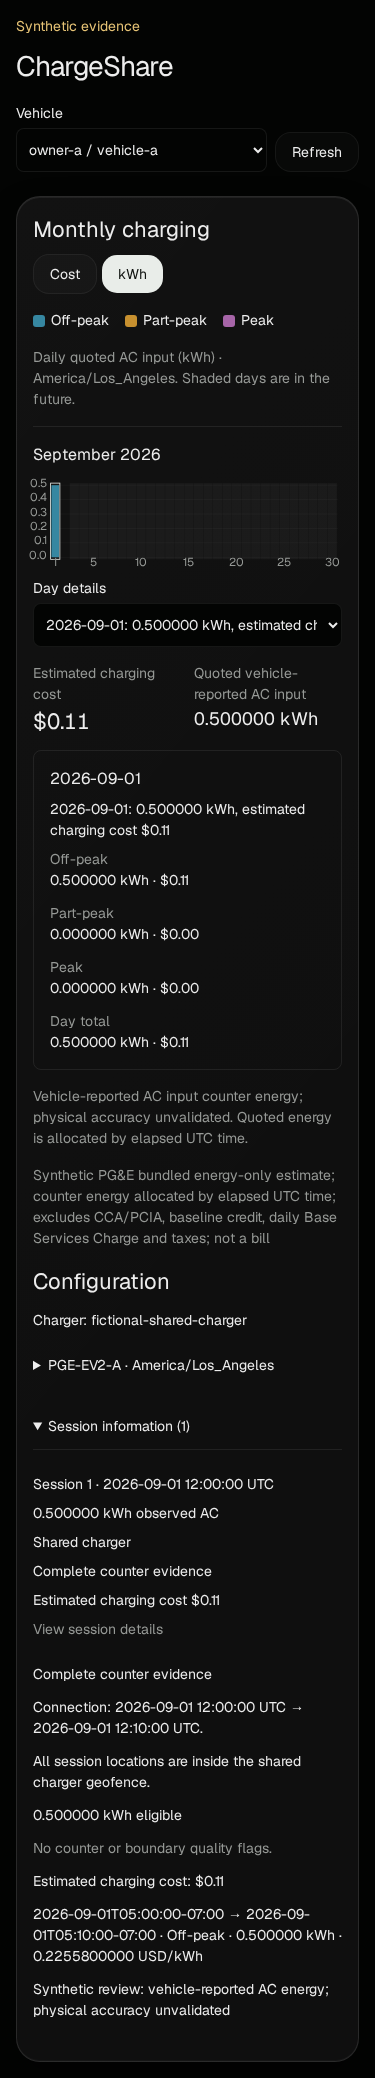
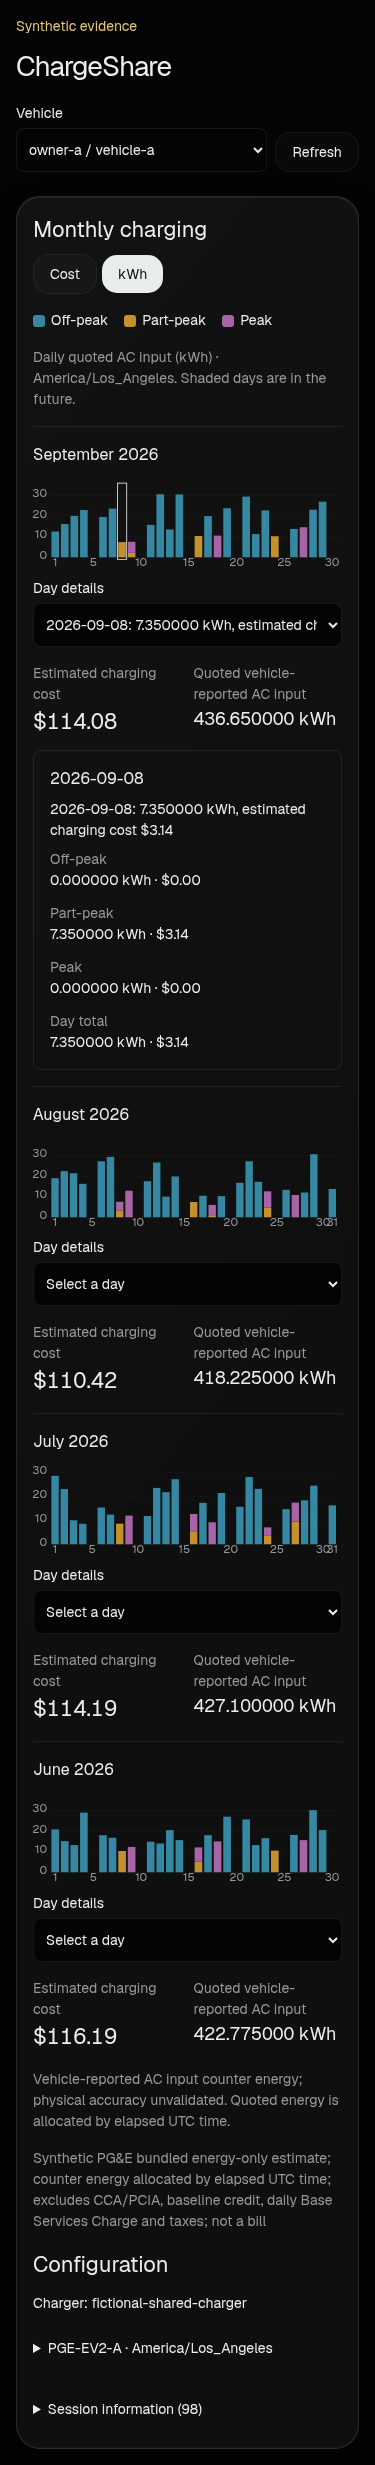
Docs: realistic synthetic dashboard dataset and screenshots (#70)

diff --git a/dev/fixtures/dashboard.py b/dev/fixtures/dashboard.py
@@ -1,0 +1,94 @@
+import calendar
+import json
+import random
+from datetime import datetime, timedelta, timezone
+from pathlib import Path
+from zoneinfo import ZoneInfo
+
+
+SYNTHETIC_NOTICE = "Synthetic data for demos and screenshots only; not real"
+OWNER = "owner-a"
+VEHICLE = "vehicle-a"
+FIXTURES = Path(__file__).resolve().parent
+LOCAL_TIMEZONE = ZoneInfo("America/Los_Angeles")
+
+
+def fictional_charger_location() -> dict[str, float]:
+    complete = json.loads((FIXTURES / "complete.json").read_text())
+    fields = complete["expected"][0]["payload"]["data"]
+    return next(field["value"]["locationValue"] for field in fields if field["key"] == "Location")
+
+
+def utc_timestamp(local_time: datetime) -> str:
+    return local_time.astimezone(timezone.utc).strftime("%Y-%m-%dT%H:%M:%SZ")
+
+
+def counter_kwh(micro_kwh: int) -> str:
+    return f"{micro_kwh // 1_000_000}.{micro_kwh % 1_000_000:06d}"
+
+
+def session_schedule(day: int, random_source: random.Random) -> tuple[int, int]:
+    if day % 9 == 0:
+        return random_source.choice((980, 1080, 1185)), random_source.randrange(90, 181, 15)
+    if day % 8 == 0:
+        return random_source.choice((915, 1275, 1320)), random_source.randrange(75, 121, 15)
+    return random_source.choice((0, 10, 20, 30, 45, 60)), random_source.randrange(135, 301, 15)
+
+
+def generate_dashboard_fixture() -> dict:
+    random_source = random.Random(70)
+    manifest = json.loads((FIXTURES.parent / "ingestion-manifest.json").read_text())
+    manifest["manifest_version"] = "fictional-dashboard-v1"
+    manifest["mappings"] = [{"device": VEHICLE, "vehicle": VEHICLE, "owner": OWNER}]
+    manifest["geofences"] = [geofence for geofence in manifest["geofences"] if geofence["owner"] == OWNER]
+    manifest["owner_chargers"] = [charger for charger in manifest["owner_chargers"] if charger["owner_id"] == OWNER]
+    manifest["annotations"] = []
+    location = fictional_charger_location()
+    records = []
+    counter_micro_kwh = 100_000_000
+    for month in range(6, 10):
+        for day in range(1, calendar.monthrange(2026, month)[1] + 1):
+            if day % 5 == 0:
+                continue
+            start_minute, duration_minutes = session_schedule(day, random_source)
+            start = datetime(2026, month, day, tzinfo=LOCAL_TIMEZONE) + timedelta(minutes=start_minute)
+            power_tenths_kw = random_source.randint(35, 72)
+            energy_micro_kwh = power_tenths_kw * duration_minutes * 1_000_000 // 600
+            connection = f"demo-{month:02d}-{day:02d}"
+            for elapsed_minutes in range(0, duration_minutes + 1, 15):
+                kind = "start" if elapsed_minutes == 0 else "end" if elapsed_minutes == duration_minutes else "sample"
+                created_at = utc_timestamp(start + timedelta(minutes=elapsed_minutes))
+                position = len(records) + 1
+                observed_counter = counter_micro_kwh + energy_micro_kwh * elapsed_minutes // duration_minutes
+                manifest["annotations"].append({
+                    "device": VEHICLE,
+                    "created_at": created_at,
+                    "position": str(position),
+                    "connection": connection,
+                    "kind": kind,
+                    "charge_type": "ac",
+                })
+                records.append({
+                    "key": VEHICLE,
+                    "payload": {
+                        "vin": VEHICLE,
+                        "createdAt": created_at,
+                        "isResend": False,
+                        "data": [
+                            {"key": "DetailedChargeState", "value": {"detailedChargeStateValue": "DetailedChargeStateComplete" if kind == "end" else "DetailedChargeStateCharging"}},
+                            {"key": "ACChargingEnergyIn", "value": {"stringValue": counter_kwh(observed_counter)}},
+                            {"key": "Location", "value": {"locationValue": location}},
+                        ],
+                    },
+                })
+            counter_micro_kwh += energy_micro_kwh
+    return {
+        "notice": SYNTHETIC_NOTICE,
+        "as_of_utc_seconds": int(datetime(2026, 9, 30, 23, 59, 59, tzinfo=LOCAL_TIMEZONE).timestamp()),
+        "manifest": manifest,
+        "records": records,
+    }
+
+
+if __name__ == "__main__":
+    print(json.dumps(generate_dashboard_fixture(), indent=2))

diff --git a/dev/fixtures/dashboard.rs b/dev/fixtures/dashboard.rs
@@ -1,0 +1,118 @@
+use std::error::Error;
+use std::fs;
+use std::path::PathBuf;
+
+use chargeshare_core::{OwnerId, VehicleId};
+use chargeshare_ingestion::{
+    DeliveryCoordinate, Manifest, ManifestConfig, PartitionStart, SYNTHETIC_TOPIC, SourceBinding,
+    Store,
+};
+use serde::Deserialize;
+use serde_json::{Value, json};
+
+#[derive(Deserialize)]
+#[serde(deny_unknown_fields)]
+struct DashboardFixture {
+    notice: String,
+    as_of_utc_seconds: i64,
+    manifest: ManifestConfig,
+    records: Vec<FixtureRecord>,
+}
+
+#[derive(Deserialize)]
+#[serde(deny_unknown_fields)]
+struct FixtureRecord {
+    key: String,
+    payload: Value,
+}
+
+fn main() -> Result<(), Box<dyn Error>> {
+    let arguments: Vec<_> = std::env::args().skip(1).collect();
+    if arguments.len() != 2 {
+        return Err("usage: dashboard-fixture <generated-json> <fresh-output-directory>".into());
+    }
+    let fixture: DashboardFixture = serde_json::from_slice(&fs::read(&arguments[0])?)?;
+    if fixture.notice != "Synthetic data for demos and screenshots only; not real" {
+        return Err("synthetic fixture notice required".into());
+    }
+    let output = PathBuf::from(&arguments[1]);
+    fs::DirBuilder::new().create(&output)?;
+    #[cfg(unix)]
+    {
+        use std::os::unix::fs::PermissionsExt;
+        fs::set_permissions(&output, fs::Permissions::from_mode(0o700))?;
+    }
+    let manifest = Manifest::new(fixture.manifest)?;
+    let source = SourceBinding {
+        epoch: "synthetic-dashboard-v1".to_owned(),
+        topic: SYNTHETIC_TOPIC.to_owned(),
+        cluster_id: None,
+        topic_id: None,
+        partitions: vec![PartitionStart {
+            partition: 0,
+            initial_offset: 0,
+        }],
+    };
+    let mut store = Store::open(&output.join("ingestion.sqlite3"), &manifest, &source)?;
+    for (offset, record) in fixture.records.iter().enumerate() {
+        let offset = i64::try_from(offset)?;
+        store.ingest(
+            &manifest,
+            DeliveryCoordinate {
+                partition: 0,
+                offset,
+            },
+            offset,
+            Some(record.key.as_bytes()),
+            &serde_json::to_vec(&record.payload)?,
+        )?;
+    }
+    let statistics = store.statistics()?;
+    if statistics.rejected_deliveries != 0 {
+        return Err("synthetic fixture ingestion rejected records".into());
+    }
+    let api = output.join("http/api/poc");
+    fs::create_dir_all(&api)?;
+    let scopes: Vec<_> = manifest
+        .config()
+        .mappings
+        .iter()
+        .map(|mapping| json!({"owner": mapping.owner, "vehicle": mapping.vehicle}))
+        .collect();
+    fs::write(
+        api.join("scopes"),
+        serde_json::to_vec(&json!({"synthetic_only": true, "scopes": scopes}))?,
+    )?;
+    for mapping in &manifest.config().mappings {
+        let owner = OwnerId::new(&mapping.owner)?;
+        let vehicle = VehicleId::new(&mapping.vehicle)?;
+        let mut result = store.results(&owner, &vehicle)?;
+        let ledger = store.replay(&owner, &vehicle)?;
+        let prices = ledger
+            .time_of_use_pricing(&vehicle, &manifest.rate_history(&owner)?)
+            .map_err(|_| "synthetic fixture pricing failed")?;
+        result.monthly = prices
+            .monthly_history(fixture.as_of_utc_seconds)
+            .map_err(|_| "synthetic fixture monthly history failed")?
+            .into();
+        result.revision.clear();
+        let hash = serde_json::to_vec(&result)?
+            .iter()
+            .fold(0xcbf29ce484222325_u64, |hash, byte| {
+                (hash ^ u64::from(*byte)).wrapping_mul(0x100000001b3)
+            });
+        result.revision = format!("results-v2-{hash:016x}");
+        let scoped_path = api
+            .join("owners")
+            .join(owner.as_str())
+            .join("vehicles")
+            .join(vehicle.as_str());
+        fs::create_dir_all(&scoped_path)?;
+        fs::write(scoped_path.join("results"), serde_json::to_vec(&result)?)?;
+    }
+    println!(
+        "Synthetic demo: {} records ingested into SQLite; Rust-priced dashboard snapshot exported. Receiver/Kafka transport not exercised.",
+        statistics.accepted_deliveries
+    );
+    Ok(())
+}

diff --git a/dev/fixtures/test_dashboard.py b/dev/fixtures/test_dashboard.py
@@ -1,0 +1,74 @@
+import json
+import random
+import unittest
+from collections import defaultdict
+from datetime import datetime
+from decimal import Decimal
+
+from dashboard import FIXTURES, LOCAL_TIMEZONE, SYNTHETIC_NOTICE, generate_dashboard_fixture
+
+
+class DashboardFixtureTests(unittest.TestCase):
+    def setUp(self):
+        self.fixture = generate_dashboard_fixture()
+        self.sessions = defaultdict(list)
+        for annotation, record in zip(self.fixture["manifest"]["annotations"], self.fixture["records"], strict=True):
+            self.sessions[annotation["connection"]].append((annotation, record))
+
+    def test_generation_is_repeatable_and_leaves_global_random_state_alone(self):
+        random_state = random.getstate()
+        self.assertEqual(self.fixture, generate_dashboard_fixture())
+        self.assertEqual(random_state, random.getstate())
+        self.assertEqual(self.fixture["notice"], SYNTHETIC_NOTICE)
+
+    def test_only_fictional_scope_and_existing_charger_coordinates_are_used(self):
+        manifest = self.fixture["manifest"]
+        self.assertEqual(manifest["mappings"], [{"device": "vehicle-a", "owner": "owner-a", "vehicle": "vehicle-a"}])
+        self.assertEqual(manifest["owner_chargers"][0]["charger_id"], "fictional-shared-charger")
+        complete = json.loads((FIXTURES / "complete.json").read_text())
+        original_location = next(field["value"]["locationValue"] for field in complete["expected"][0]["payload"]["data"] if field["key"] == "Location")
+        for record in self.fixture["records"]:
+            self.assertEqual(record["key"], "vehicle-a")
+            self.assertEqual(record["payload"]["vin"], "vehicle-a")
+            self.assertEqual(record["payload"]["data"][2]["value"]["locationValue"], original_location)
+        for coordinate in ("latitude", "longitude"):
+            self.assertEqual(Decimal(manifest["owner_chargers"][0]["geofence"]["center"][coordinate]), Decimal(str(original_location[coordinate])))
+
+    def test_four_busy_months_include_mostly_midnight_and_all_rate_periods(self):
+        monthly_starts = defaultdict(list)
+        for session in self.sessions.values():
+            local_start = datetime.fromisoformat(session[0][0]["created_at"]).astimezone(LOCAL_TIMEZONE)
+            monthly_starts[local_start.month].append(local_start.hour * 60 + local_start.minute)
+        self.assertEqual(set(monthly_starts), {6, 7, 8, 9})
+        for starts in monthly_starts.values():
+            self.assertGreaterEqual(len(starts), 20)
+            self.assertGreaterEqual(sum(minute <= 60 for minute in starts) / len(starts), 0.7)
+            self.assertTrue(any(900 <= minute < 960 or minute >= 1260 for minute in starts))
+            self.assertTrue(any(960 <= minute < 1260 for minute in starts))
+
+    def test_sessions_have_complete_nonoverlapping_monotonic_counter_evidence(self):
+        prior_end = None
+        prior_counter = Decimal(0)
+        energies = set()
+        for session in self.sessions.values():
+            self.assertEqual(session[0][0]["kind"], "start")
+            self.assertEqual(session[-1][0]["kind"], "end")
+            times = [datetime.fromisoformat(annotation["created_at"]) for annotation, _ in session]
+            counters = [Decimal(record["payload"]["data"][1]["value"]["stringValue"]) for _, record in session]
+            self.assertEqual(times, sorted(set(times)))
+            self.assertEqual(counters, sorted(set(counters)))
+            self.assertGreaterEqual(counters[0], prior_counter)
+            if prior_end:
+                self.assertGreater(times[0], prior_end)
+            energy = counters[-1] - counters[0]
+            hours = Decimal(int((times[-1] - times[0]).total_seconds())) / 3600
+            self.assertGreaterEqual(energy / hours, Decimal("3.5"))
+            self.assertLessEqual(energy / hours, Decimal("7.2"))
+            energies.add(energy)
+            prior_end, prior_counter = times[-1], counters[-1]
+        self.assertGreater(len(energies), 30)
+        self.assertEqual([int(annotation["position"]) for annotation in self.fixture["manifest"]["annotations"]], list(range(1, len(self.fixture["records"]) + 1)))
+
+
+if __name__ == "__main__":
+    unittest.main()

diff --git a/README.md b/README.md
@@ -84,6 +84,29 @@ nix develop --no-update-lock-file -c bash scripts/dev/poc.sh reset --confirm-syn
 Without the confirmation flag, `reset` lists its scope and refuses deletion.
 The independent fixture preview uses local port **5173** while the stack runs.
 
+### Screenshot dataset without Docker
+
+[The deterministic generator](dev/fixtures/dashboard.py) creates June–September
+2026 charging history for fictional `owner-a` / `vehicle-a`, using the existing
+fictional shared-charger coordinates and labeled public sample rates.
+**Synthetic data for demos and screenshots only; not real.**
+
+With the Rust/Node tools and web dependencies installed, run from the repository
+root. Use a fresh output directory for each export:
+
+```sh
+mkdir -p .cache
+python3 dev/fixtures/dashboard.py > .cache/dashboard-input.json
+cargo run --locked -p chargeshare-ingestion --example dashboard-fixture -- .cache/dashboard-input.json .cache/dashboard-demo
+python3 -m http.server 8788 --bind 127.0.0.1 --directory .cache/dashboard-demo/http
+```
+
+In a second terminal, run `npm --prefix apps/web run dev:persisted` and open local
+port **5174**. The Rust example ingests decoded fictional records into SQLite and
+exports the persisted dashboard's usual JSON, with monthly history calculated as
+of September 30, 2026. The HTTP server serves only that snapshot; receiver/Kafka
+transport is not exercised. Generated data and SQLite stay in ignored `.cache/`.
+
 ## Tests
 
 Enter the pinned shell, then run the applicable checks:
@@ -96,6 +119,7 @@ bash scripts/testing/offline-suite.sh
 bash scripts/testing/ingestion-suite.sh
 python3 scripts/testing/test_ingestion_guard.py
 python3 -m unittest discover -s scripts/dev -p 'test_*.py'
+python3 -m unittest discover -s dev/fixtures -p 'test_*.py'
 npm --prefix apps/web ci
 npm --prefix apps/web test
 npm run preview:build
